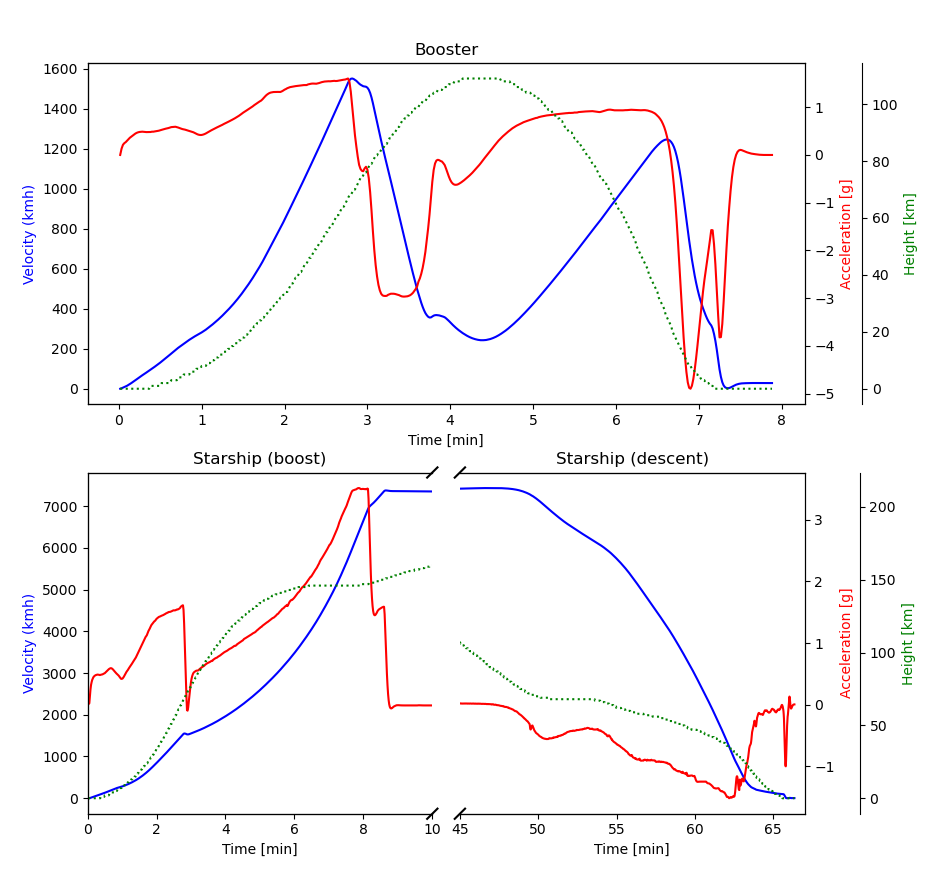
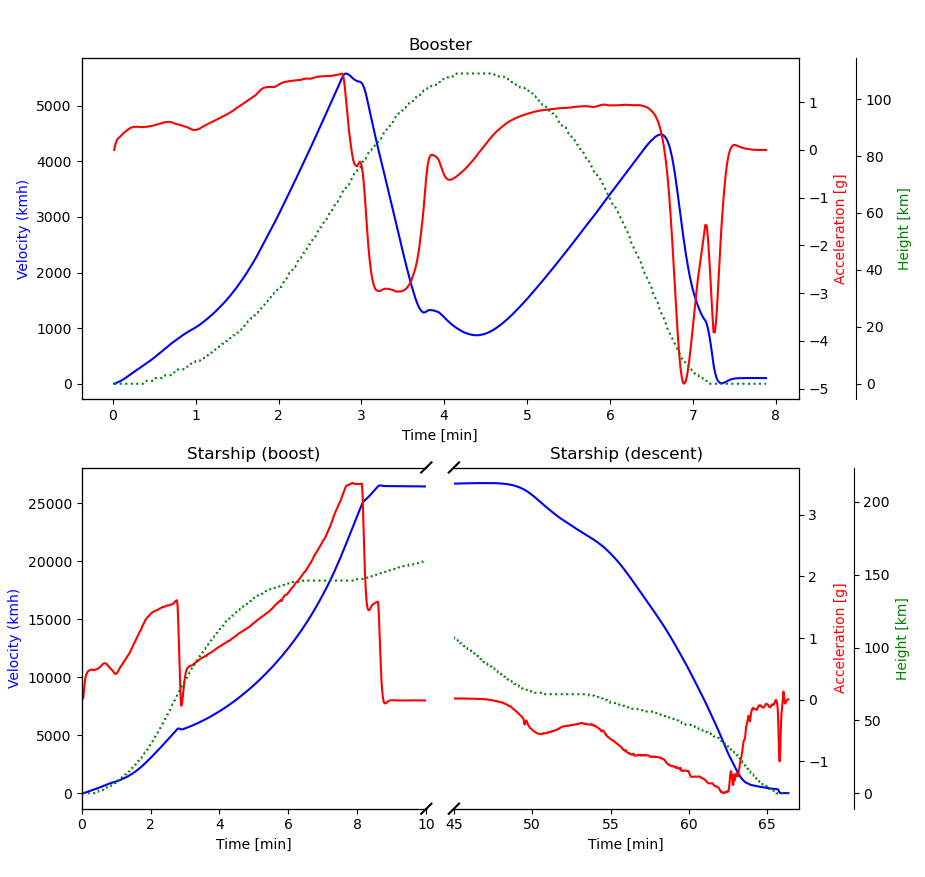
fixed error: now y axis is in kmh

diff --git a/ift4plot.py b/ift4plot.py
@@ -18,11 +18,11 @@ for line in sys.stdin:
 #  speed in m/s
 #  height in km
 tbooster = np.array([r[0]/60 for r in recs if r[1] is not None])
-vbooster = np.array([r[1]/3.6 for r in recs if r[1] is not None])
+vbooster = np.array([r[1] for r in recs if r[1] is not None])
 hbooster = np.array([r[3] for r in recs if r[3] is not None])
 abooster = np.array([r[5] for r in recs if r[5] is not None])
 tstarship = np.array([r[0]/60 for r in recs if r[2] is not None])
-vstarship = np.array([r[2]/3.6 for r in recs if r[2] is not None])
+vstarship = np.array([r[2] for r in recs if r[2] is not None])
 hstarship = np.array([r[4] for r in recs if r[4] is not None])
 astarship = np.array([r[6] for r in recs if r[6] is not None])
 
